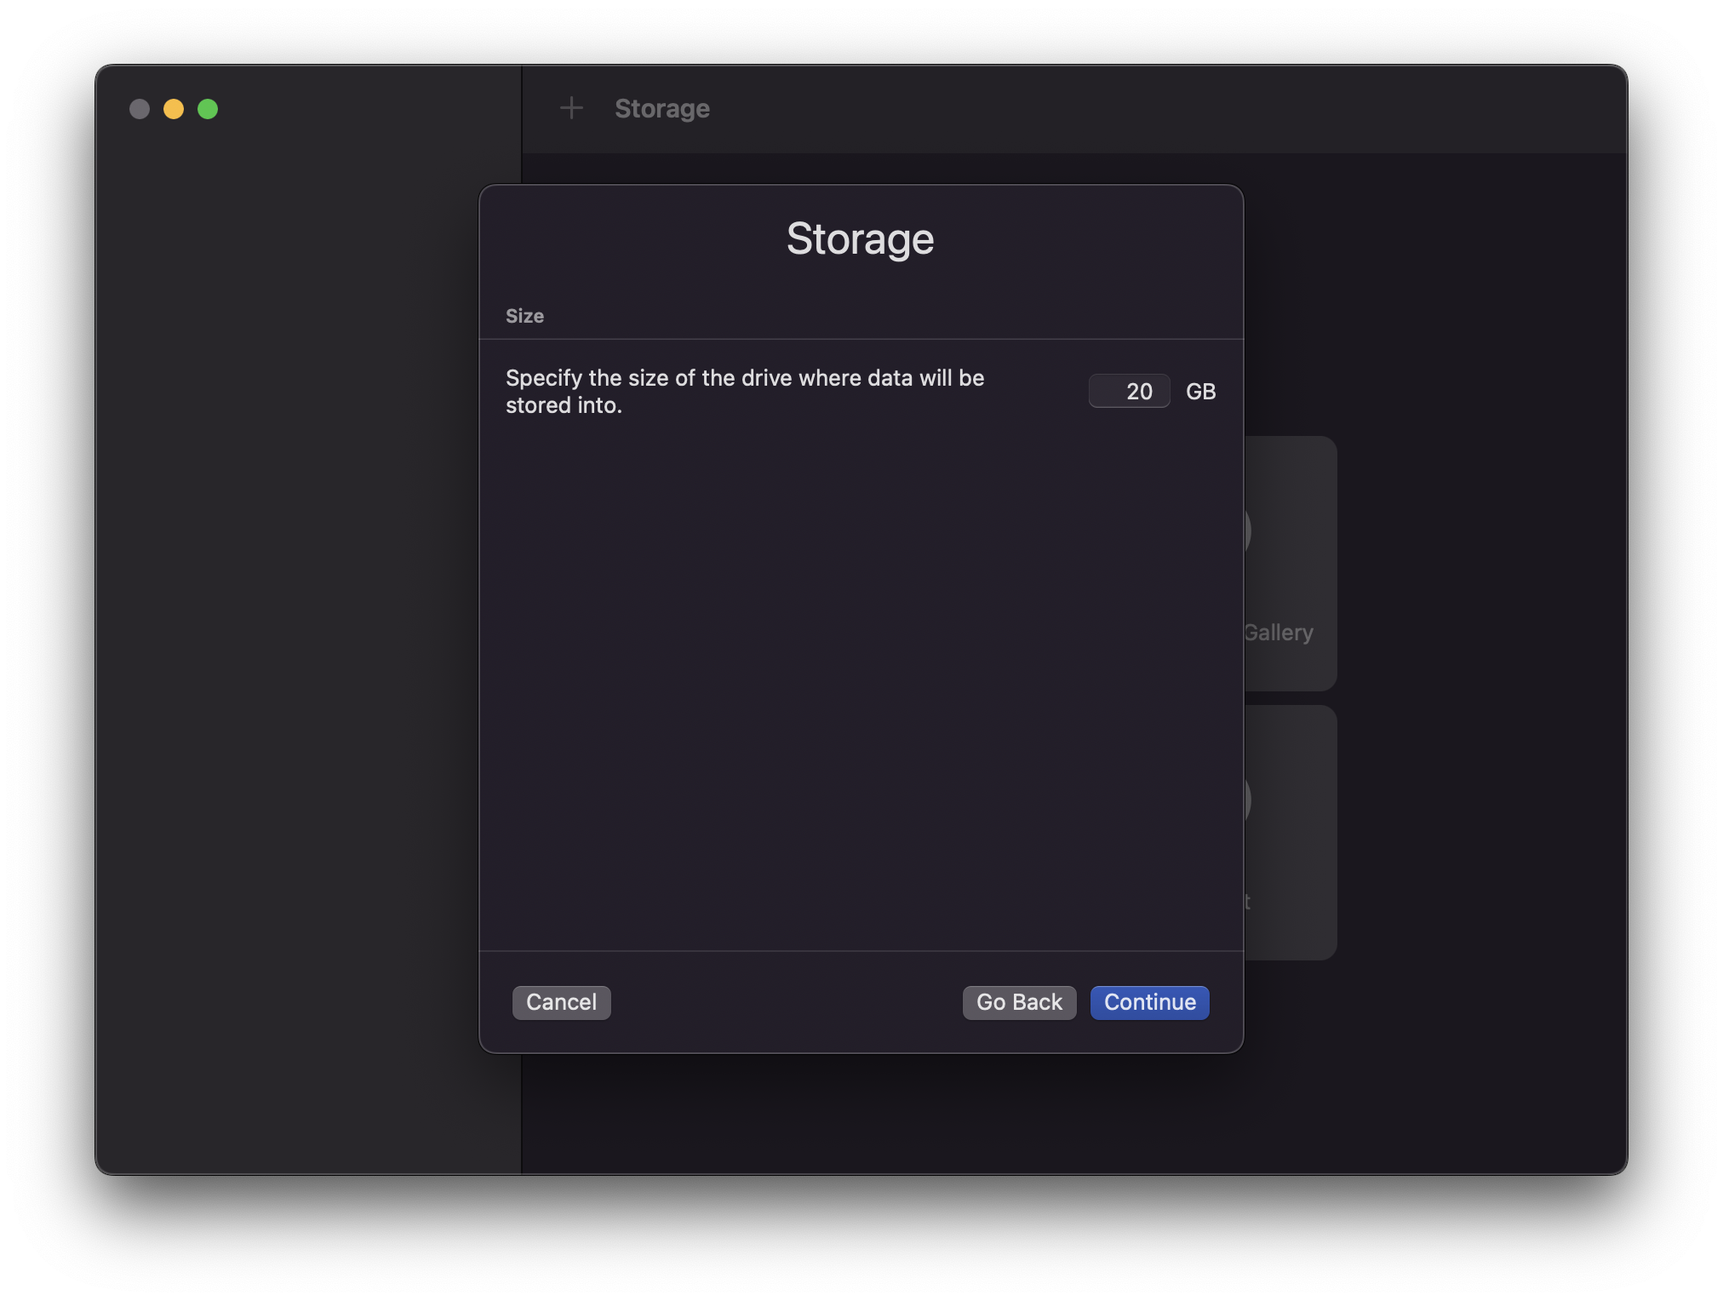
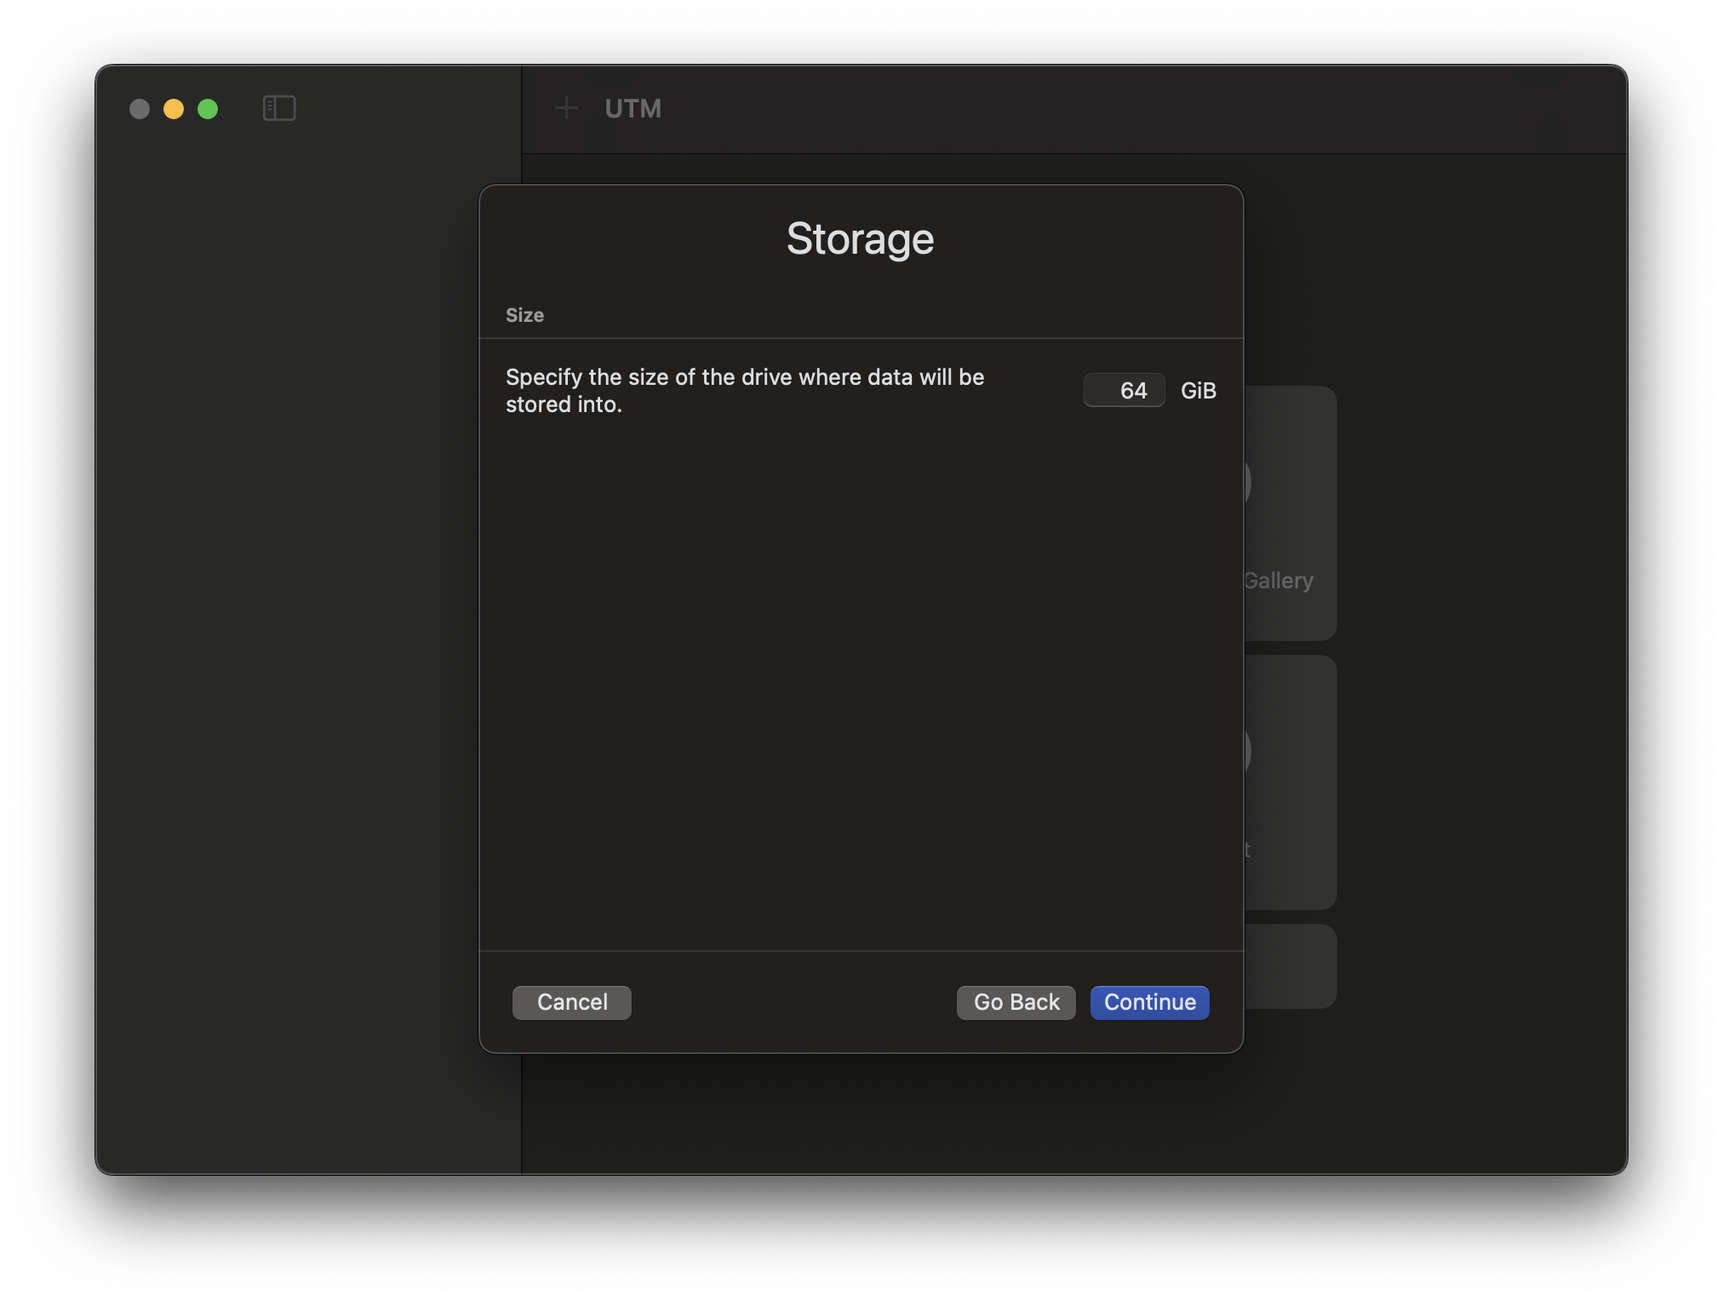
0610- f1448826 까지 반영

diff --git a/usb/live-usb-install-with-linux/index.md b/usb/live-usb-install-with-linux/index.md
@@ -7,6 +7,8 @@ author: ["g0tmi1k",]
 번역: ["xenix4845"]
 ---
 
+<!-- USB Stick, USB Drive, USB Disk, USB Thumb -->
+
 칼리 리눅스를 시작하는 가장 빠른 방법이자 저희가 가장 좋아하는 방법은 USB 드라이브에서 "라이브"로 실행하는 거예요. 이 방법에는 여러 장점이 있어요:
 
 - 비파괴적이에요 - 호스트 시스템의 하드 드라이브나 설치된 OS를 전혀 변경하지 않고, 다시 일반 모드로 돌아가려면 "칼리 라이브" USB 드라이브를 제거하고 시스템을 재시작하면 돼요.
@@ -16,47 +18,128 @@ author: ["g0tmi1k",]
 
 이를 위해서는 먼저 칼리 리눅스의 ISO 이미지로 설정된 부팅 가능한 USB 드라이브를 만들어야 해요.
 
-## 필요한 것들
+### 필요한 것들
 
-1. 실행할 시스템에 맞는 최신 칼리 빌드 이미지의 _검증된_ ISO 이미지 복사본: [공식 칼리 리눅스 이미지 다운로드](/docs/introduction/download-official-kali-linux-images/) 자세한 내용을 확인하세요.
+1. 실행할 시스템에 맞는 최신 칼리 빌드 이미지의 _검증된_ ISO 이미지 복사본.
+  - 자세한 내용은 [공식 칼리 리눅스 이미지 다운로드](/docs/introduction/download-official-kali-linux-images/)를 확인하세요.
 
-2. Linux를 사용 중이라면 이미 설치되어 있는 `dd` 명령어를 사용하거나 [Etcher](https://www.balena.io/etcher/)를 사용할 수 있어요.
+2. Linux를 사용 중이라면 종종 미리 설치되어 있는 `dd` 명령어를 사용하거나 [Etcher](https://www.balena.io/etcher/)를 사용할 수 있어요.
 
-3. 4GB 이상의 USB 메모리. (SD 카드 슬롯이 있는 시스템은 비슷한 용량의 SD 카드를 사용할 수 있어요. 절차는 동일해요.)
+3. 4GB 이상의 USB 메모리.
+  - SD 카드 슬롯이 있는 시스템은 비슷한 용량의 SD 카드를 사용할 수 있어요. 절차는 동일해요.
 
-## 칼리 리눅스 라이브 USB 설치 절차
+### 칼리 리눅스 라이브 USB 설치 절차
 
 이 절차의 세부 사항은 [Windows](/docs/usb/live-usb-install-with-windows/), [Linux](/docs/usb/live-usb-install-with-linux/), 또는 [macOS/OS X](/docs/usb/live-usb-install-with-mac/) 시스템에서 하는지에 따라 달라져요.
 
-#### Linux에서 부팅 가능한 칼리 USB 드라이브 만들기 (DD)
+- - -
 
-Linux 환경에서 부팅 가능한 칼리 리눅스 USB 드라이브를 만드는 건 쉬워요. 칼리 ISO 파일을 다운로드하고 확인한 후, `dd` 명령어를 사용해서 다음 절차에 따라 USB 드라이브로 복사할 수 있어요. root 권한으로 실행하거나 sudo로 `dd` 명령어를 실행해야 한다는 점 참고하세요. 다음 예시는 Linux Mint 17.1 데스크톱을 가정해요 - 사용 중인 배포판에 따라 몇 가지 세부 사항이 약간 다를 수 있지만, 전반적인 아이디어는 매우 비슷할 거예요. Etcher를 사용하고 싶다면 Windows 사용자와 같은 방법을 따르세요. USB 드라이브는 /dev/sdb와 비슷한 경로를 가질 거예요.
+## Linux에서 부팅 가능한 칼리 USB 드라이브 만들기 (DD)
 
-{{% notice info %}}
-경고: 칼리 리눅스를 USB 드라이브로 이미징하는 과정은 매우 쉽지만, 무엇을 하는지 이해하지 못하거나 잘못된 출력 경로를 지정하면 의도하지 않은 디스크 드라이브를 dd로 덮어쓸 수 있어요. 실행하기 전에 다시 한 번 확인하세요.
+Linux 환경에서 부팅 가능한 칼리 리눅스 USB 드라이브를 만드는 건 간단해요.
+[칼리 ISO 파일을 다운로드하고 검증](/docs/introduction/download-official-kali-linux-images/)한 후, 다음 절차에 따라 `dd` 명령어를 사용해서 USB 드라이브로 복사할 수 있어요.
 
-복수난수(覆水難收) "엎질러진 물은 다시 담을 수 없다"
-{{% /notice %}}
-
-1. 먼저 USB 드라이브에 이미지를 쓰기 위한 장치 경로를 확인해야 해요. USB 드라이브를 꽂지 **_않은 상태_**에서 터미널 창의 명령 프롬프트에서 `sudo fdisk -l` 명령을 실행하세요 (fdisk에 관리자 권한을 사용하지 않으면 출력이 나오지 않아요). 다음과 (_정확히 같지는 않지만_) 비슷한 출력이 나올 거예요. 세 개의 파티션(/dev/sda1, /dev/sda2, /dev/sda5)을 포함한 단일 드라이브 "/dev/sda"를 보여줘요:
-
-![](Parallels-DesktopScreenSnapz007.png)
-2. 이제 USB 드라이브를 시스템의 사용 가능한 USB 포트에 꽂고 같은 명령 "sudo fdisk -l"을 다시 한번 실행하세요. 이번에는 출력이 (다시 한번, _정확히 같지는 않지만_) 이런 식으로 나올 거예요. 이 예시에서는 이전에 없던 추가 장치 "/dev/sdb", 16GB USB 드라이브가 보여요:
-
-![](FinderScreenSnapz002.png)
-3. (조심스럽게!) USB 장치에 칼리 ISO 파일을 이미징해요. 아래 예시 명령은 작성하는 ISO 이미지의 이름이 "kali-linux-2025.1-live-amd64.iso"이고 현재 작업 디렉토리에 있다고 가정해요. 블록 크기 매개변수를 증가시킬 수 있고, dd 명령의 작업 속도를 높일 수 있지만, 시스템과 많은 다른 요소들에 따라 때때로 부팅할 수 없는 USB 드라이브가 생길 수 있어요. 권장 값인 "bs=4M"은 안전하고 신뢰할 수 있어요. 추가로, "conv=fsync" 매개변수는 명령이 반환되기 전에 데이터가 물리적으로 USB 드라이브에 기록되도록 해줘요:
+root 권한으로 실행하거나 sudo로 `dd` 명령어를 실행해야 한다는 점 참고하세요. 다음 예시는 Linux Mint 호스트를 가정해요 - 사용 중인 배포판에 따라 몇 가지 세부 사항이 약간 다를 수 있지만, 전반적인 아이디어는 매우 비슷할 거예요. [Etcher](#linux에서-부팅-가능한-칼리-usb-드라이브-만들기-etcher)를 사용하고 싶다면 Windows 사용자와 같은 방법을 따르세요. USB 드라이브는 /dev/sdb와 비슷한 경로를 가질 거예요.
 
 {{% notice info %}}
-명령어에서 '/dev/sdX'를 사용하지만, 이 '/dev/sdX'는 이전에 발견한 드라이브로 대체해야 해요. '/dev/sdX'는 어떤 장치도 덮어쓰지 않으며, 실수로 덮어쓰는 것을 방지하기 위해 문서에 안전하게 사용될 수 있어요. 이전 단계에서 확인한 올바른 장치 이름을 사용해주세요.
+경고: 무엇을 하는지 이해하지 못하거나 잘못된 출력 경로를 지정하면 의도하지 않은 디스크 드라이브를 `dd`로 쉽게 덮어쓸 수 있어요. 실행하기 전에 다시 한 번 확인하세요. 나중에는 너무 늦어요.
+
+**경고를 진지하게 받아들이세요**.
 {{% /notice %}}
+
+1. 먼저 USB 드라이브에 이미지를 쓰기 위한 장치 경로를 확인해야 해요. USB 드라이브를 포트에 꽂지 **_않은 상태_**에서 터미널 창의 명령 프롬프트에서 `sudo fdisk -l` 명령을 실행하세요 (fdisk에 관리자 권한을 사용하지 않으면 출력이 나오지 않아요). 다음과 (_정확히 같지는 않지만_) 비슷한 출력이 나올 거예요. 드라이브들 - "/dev/sdX" - 과 그 파티션들 - /dev/sdX\[1-9\]을 보여줘요. 여기서는 세 개의 파티션을 가진 단일 드라이브 /dev/sda만 있어요:
 
 ```console
-kali@kali:~$ dd if=kali-linux-2025.1-live-amd64.iso of=/dev/sdX conv=fsync bs=4M
+user@mint:~$ sudo fdisk -l
+Disk /dev/sda: 2.73 TiB, 3000592982016 bytes, 5860533168 sectors
+Disk model: WDC WD30EZRX-00D
+Units: sectors of 1 * 512 = 512 bytes
+Sector size (logical/physical): 512 bytes / 4096 bytes
+I/O size (minimum/optimal): 4096 bytes / 4096 bytes
+Disklabel type: gpt
+Disk identifier: 58D184D9-8780-4B6A-80F7-E1500B95A2AB
+
+Device          Start        End    Sectors  Size Type
+/dev/sda1        2048    1050623    1048576  512M EFI System
+/dev/sda2     1050624 5858531327 5857480704  2.7T Linux filesystem
+/dev/sda3  5858531328 5860532223    2000896  977M Linux swap
+user@mint:~$
 ```
 
-USB 드라이브 이미징은 시간이 꽤 걸릴 수 있어요. 아래 샘플 출력에서 볼 수 있듯이, 10분 이상 걸리는 것은 드문 일이 아니에요. 참을성을 가지세요!
+- - -
 
-`dd` 명령은 완료될 때까지 아무런 피드백을 제공하지 않지만, 드라이브에 접근 표시기가 있다면 가끔씩 깜빡이는 걸 볼 수 있을 거예요. 이미지를 `dd`로 복사하는 시간은 사용된 시스템의 속도, USB 드라이브 자체, 그리고 삽입된 USB 포트에 따라 달라져요. `dd`가 드라이브 이미징을 마치면 다음과 같은 출력을 보여줘요:
+2. USB 드라이브를 시스템에 꽂고 같은 명령 "`sudo fdisk -l`"을 두 번째로 실행하세요. 출력은 다음과 (다시 한번, _정확히 같지는 않지만_) 비슷하게 나올 거예요. 이전에 없었던 추가 장치가 표시될 거예요. USB 드라이브의 경로는 대체로 목록의 마지막에 있을 거예요. 어쨌든, 이전에 없던 것 중 하나일 거예요.
+예시에서는 이전에 없었던 **/dev/sdb**가 새로 생긴 것을 볼 수 있어요. 64GB USB 드라이브예요:
+
+```console
+user@mint:~$ sudo fdisk -l
+Disk /dev/sda: 2.73 TiB, 3000592982016 bytes, 5860533168 sectors
+Disk model: WDC WD30EZRX-00D
+Units: sectors of 1 * 512 = 512 bytes
+Sector size (logical/physical): 512 bytes / 4096 bytes
+I/O size (minimum/optimal): 4096 bytes / 4096 bytes
+Disklabel type: gpt
+Disk identifier: 58D184D9-8780-4B6A-80F7-E1500B95A2AB
+
+Device          Start        End    Sectors  Size Type
+/dev/sda1        2048    1050623    1048576  512M EFI System
+/dev/sda2     1050624 5858531327 5857480704  2.7T Linux filesystem
+/dev/sda3  5858531328 5860532223    2000896  977M Linux swap
+
+
+Disk /dev/sdb: 58.44 GiB, 62746787840 bytes, 122552320 sectors
+Disk model: Extreme
+Units: sectors of 1 * 512 = 512 bytes
+Sector size (logical/physical): 512 bytes / 512 bytes
+I/O size (minimum/optimal): 512 bytes / 512 bytes
+Disklabel type: gpt
+Disk identifier: 1D24569E-BDCD-4912-9689-8BFC38EFB130
+
+Device      Start       End   Sectors  Size Type
+/dev/sdb1      40    409639    409600  200M EFI System
+/dev/sdb2  411648 122550271 122138624 58.2G Microsoft basic data
+user@mint:~$
+```
+
+- - -
+
+3. (조심스럽게!) USB 장치에 칼리 ISO 파일을 이미징하세요. 작성하고 있는 ISO 이미지의 이름이 "kali-linux-2025.1-live-amd64.iso"이고 현재 작업 디렉토리에 있다고 가정할 거예요.
+
+```console
+user@mint:~$ file kali-linux-2025.1-live-amd64.iso
+kali-linux-2025.1-live-amd64.iso: ISO 9660 CD-ROM filesystem data (DOS/MBR boot sector) 'Kali Linux amd64' (bootable)
+user@mint:~$
+```
+
+DD의 블록크기 매개변수는 증가할 수 있으며, dd 명령어의 작업 속도를 높일 수 있지만, 시스템과 여러 다른 요인에 따라 때때로 부팅할 수 없는 USB 드라이브를 생성할 수 있어요. 권장 값인 "bs=4M"은 보수적이고 신뢰할 수 있어요.
+
+추가로, "conv=fsync" 매개변수는 명령이 반환되기 전에 데이터가 물리적으로 USB 드라이브에 기록되도록 해줘요.
+
+{{% notice info %}}
+명령어에서 '`/dev/sdX`'를 사용하지만, 이 '`/dev/sdX`'는 이전에 발견한 드라이브로 대체해야 해요.
+
+**이전 단계에서 올바른 장치 이름을 사용하세요**.
+{{% /notice %}}
+
+시스템의 나이에 따라 DD 버전이 상태 업데이트/피드백을 제공할 수 있어요 (2017년 이후):
+
+이를 위해 간단히 `status` 플래그를 추가해요:
+
+```console
+user@mint:~$ sudo dd if=kali-linux-2025.1-live-amd64.iso of=/dev/sdX conv=fsync bs=4M status=progress
+```
+
+- - -
+
+그렇지 않으면, 구형 시스템의 경우:
+
+```console
+user@mint:~$ sudo dd if=kali-linux-2025.1-live-amd64.iso of=/dev/sdX conv=fsync bs=4M
+```
+
+USB 드라이브 이미징은 시간이 꽤 걸릴 수 있어요. 아래 샘플 출력에서 볼 수 있듯이, 10분 이상 걸리는 것은 드문 일이 아니니 참을성을 가지세요!
+
+이 `dd` 명령어 사용법은 완료될 때까지 아무런 피드백을 제공하지 않지만, 드라이브에 접근 표시기가 있다면 가끔씩 깜빡이는 걸 볼 수 있을 거예요. 이미지를 `dd`로 복사하는 시간은 사용된 시스템의 속도, USB 드라이브 자체, 그리고 삽입된 USB 포트에 따라 달라져요. `dd`가 드라이브 이미징을 마치면 다음과 같은 출력을 보여줘요:
 
 ```plaintext
 893+1 records in
@@ -64,39 +147,20 @@ USB 드라이브 이미징은 시간이 꽤 걸릴 수 있어요. 아래 샘플 
 3748147200 bytes (3.7 GB, 3.5 GiB) copied, 998.442 s, 3.8 MB/s
 ```
 
-이게 다예요, 정말로!
-
 - - -
 
-#### Linux에서 부팅 가능한 칼리 USB 드라이브 만들기 (상태 표시가 있는 DD)
+이게 다예요, 정말로!
 
-또는 이미징을 위한 몇 가지 다른 옵션이 있어요.
+## Linux에서 부팅 가능한 칼리 USB 드라이브 만들기 (Etcher)
 
-첫 번째 옵션은 상태 표시기가 있는 `dd`예요. 하지만 이것은 최신 시스템에서만 사용 가능해요. 이를 위해 간단히 `status` 플래그를 추가해요:
-
-{{% notice info %}}
-명령어에서 '/dev/sdX'를 사용하지만, 이 '/dev/sdX'는 적절한 장치 라벨로 대체해야 해요. '/dev/sdX'는 어떤 장치도 덮어쓰지 않으며, 실수로 덮어쓰는 것을 방지하기 위해 문서에 안전하게 사용될 수 있어요. 올바른 장치 라벨을 사용해주세요.
-{{% /notice %}}
-
-```console
-kali@kali:~$ dd if=kali-linux-2025.1-live-amd64.iso of=/dev/sdX conv=fsync bs=4M status=progress
-```
-
-또 다른 옵션은 `pv`를 사용하는 거예요. 대략적인 타이머를 얻기 위해 여기서도 `size` 플래그를 사용할 수 있어요. 사용 중인 이미지에 따라 크기를 변경하세요:
-
-```console
-kali@kali:~$ dd if=kali-linux-2025.1-live-amd64.iso | pv -s 2.8G | dd of=/dev/sdX conv=fsync bs=4M
-```
-
-#### Linux에서 부팅 가능한 칼리 USB 드라이브 만들기 (Etcher)
-
-세 번째는 [Etcher](https://www.balena.io/etcher/)예요.
+플래시를 위한 그래픽 옵션을 원한다면 [Etcher](https://www.balena.io/etcher/)를 권장해요.
 
 1. Etcher를 다운로드하고 실행해요.
 
 2. "이미지 선택"으로 이미징할 칼리 리눅스 ISO 파일을 선택하고 덮어쓸 USB 드라이브가 올바른 것인지 확인해요. 준비되면 "Flash!" 버튼을 클릭해요.
 
 ![](kali-usb-install-windows.png)
+
 3. Etcher가 이미지가 플래시되었다고 알리면 USB 드라이브를 안전하게 제거할 수 있어요.
 
 이제 USB 장치를 사용하여 칼리 라이브/설치 환경으로 부팅할 수 있어요.

diff --git a/virtualization/install-utm-guest-vm/index.md b/virtualization/install-utm-guest-vm/index.md
@@ -1,49 +1,37 @@
 ---
-title: UTM 안의 Kali (게스트 VM)
+title: UTM 안의 칼리 (게스트 VM)
 description:
 icon:
 weight: 217
 author: ["gamb1t",]
-번역: ["kmw0410"]
+번역: ["kmw0410","xenix4845"]
 ---
 
-UTM VM으로 설치하는 것은 매우 간단합니다. 우선 [UTM](https://mac.getutm.app/)을 다운로드 하고 앱을 여세요. 그런 다음 VM을 생성하고 시작 버튼을 짧게 누르세요:
+UTM VM을 설치하고 설정하는 것은 매우 간단해요. 우선 [UTM](https://mac.getutm.app/)을 다운로드하고 앱을 실행하세요. 그런 다음 VM 생성을 클릭하고 간단한 과정을 시작할 수 있어요:
 
 ![](utm-setup-2.png)
 
-우리는 [Kali Apple M1 설치 프로그램](/get-kali/#kali-installer-images) iso를 사용할 거니 Virtualize를 눌러 다음 페이지로 이동하세요:
+[칼리 Apple M1 설치 프로그램](/get-kali/#kali-installer-images) iso를 사용할 것이므로 가상화(Virtualize)를 선택하면 다음 페이지로 이동해요:
 
 ![](utm-setup-3.png)
 
-여기에서 "Other"을 선택하게 되면 다음으로 넘어가게 돼요:
+여기에서 "Other"를 선택하면 다시 다음 페이지로 이동해요:
 
 ![](utm-setup-4.png)
 
-"Boot ISO Image"를 선택하고 이전에 다운로드한 ISO를 선택하는 한 가지만 변경할게요. 완료되었다면 계속을 누를 수 있어요:
+이제 한 가지만 변경할 거예요. "Boot ISO Image"를 선택하고 이전에 다운로드한 ISO를 선택하는 것이에요. 완료되면 계속을 누를 수 있어요:
 
 ![](utm-setup-5.png)
 
-여기에서는 아무런 설정도 변경하지 않을 거니 계속 진행하세요:
+여기서는 기본 크기를 사용할 거고 그냥 계속 진행할 거예요. 하지만 필요와 [설치 크기](/docs/installation/installation-sizes/)에 따라 늘리거나 줄일 수 있어요:
 
 ![](utm-setup-6.png)
 
-여기에서 드라이브의 사이즈를 필요한 만큼 줄이거나 늘릴 수 있어요. 우리의 경우 20GB 미만으로 하고 계속할 거에요:
-
-![](utm-setup-7.png)
-
-여기서도 아무런 변경 없이 넘길 거지만, 원한다면 공유 폴더를 자유롭게 추가하세요: 
+여기서도 아무것도 변경하지 않고 넘어갈 거예요. 하지만 공유 디렉토리를 원한다면 자유롭게 추가하세요:
 
 ![](utm-setup-8.png)
 
-이제 요약이 끝났으며 VM의 이름을 "Kali Linux"로 변경할 수 있어요. 완료되면 save를 누르세요. 
-
-현재 UTM 버전에서는 버그가 있어 Kali를 콘솔 전용 모드로만 설치할 수 있어요.
-
-{{% notice info %}}
-
-해당 문서는 2년 전에 작성되었으므로 버그가 해결됐을 수도 있어요.
-
-{{% /notice %}}
+이제 요약 화면이 나오고 VM의 이름을 "Kali Linux"로 변경할 수 있어요. 완료되면 저장을 누르고 설정 버튼을 누르세요. 현재 UTM 버전의 버그로 인해 칼리를 콘솔 전용 모드로만 설치해야 해요.
 
 ![](utm-setup-9.png)
 
@@ -52,18 +40,18 @@ UTM VM으로 설치하는 것은 매우 간단합니다. 우선 [UTM](https://ma
 ![](utm-setup-10.png)
 ![](utm-setup-10.5.png)
 
-저장 후 VM을 실행하고 프롬프트가 표시되면 "Install"을 선택하세요:
+이제 저장하고 VM에서 재생을 누를 수 있어요. 프롬프트가 표시되면 "Install"을 선택하세요:
 
 ![](utm-setup-11.png)
 
-설치가 완료되었다면, VM의 CD/DVD 드라이브에서 ISO를 제거하세요.
+설치가 완료되면 VM의 CD/DVD 드라이브에서 ISO를 제거하세요.
 
-그런 다음, VM의 설정으로 가서 "Serial" 장치를 우클릭 하고 "Remove"를 선택하세요:
+그런 다음 VM의 설정으로 가서 "Serial" 장치를 마우스 오른쪽 버튼으로 클릭하고 "Remove"를 선택하여 제거하세요:
 
 ![](utm-setup-12.png)
 
-디스플레이 카드 에뮬레이터도 업데이트 해야해요. `virtio-gpu-pci` 옵션을 선택하세요:
+디스플레이 카드 에뮬레이션도 업데이트해야 해요. `virtio-gpu-pci` 옵션을 선택하세요:
 
 ![](utm-setup-13.png)
 
-아래로 내려서 "공유 디렉토리" 아래에 있는 설치 iso 이미지를 선택 후 제거하세요, 이제 VM을 일반적으로 사용할 수 있어요.
+"공유 디렉토리" 아래로 스크롤하여 설치 프로그램 iso 이미지를 선택하고 제거해야 해요. 이제 VM을 일반적으로 사용할 수 있어요.
